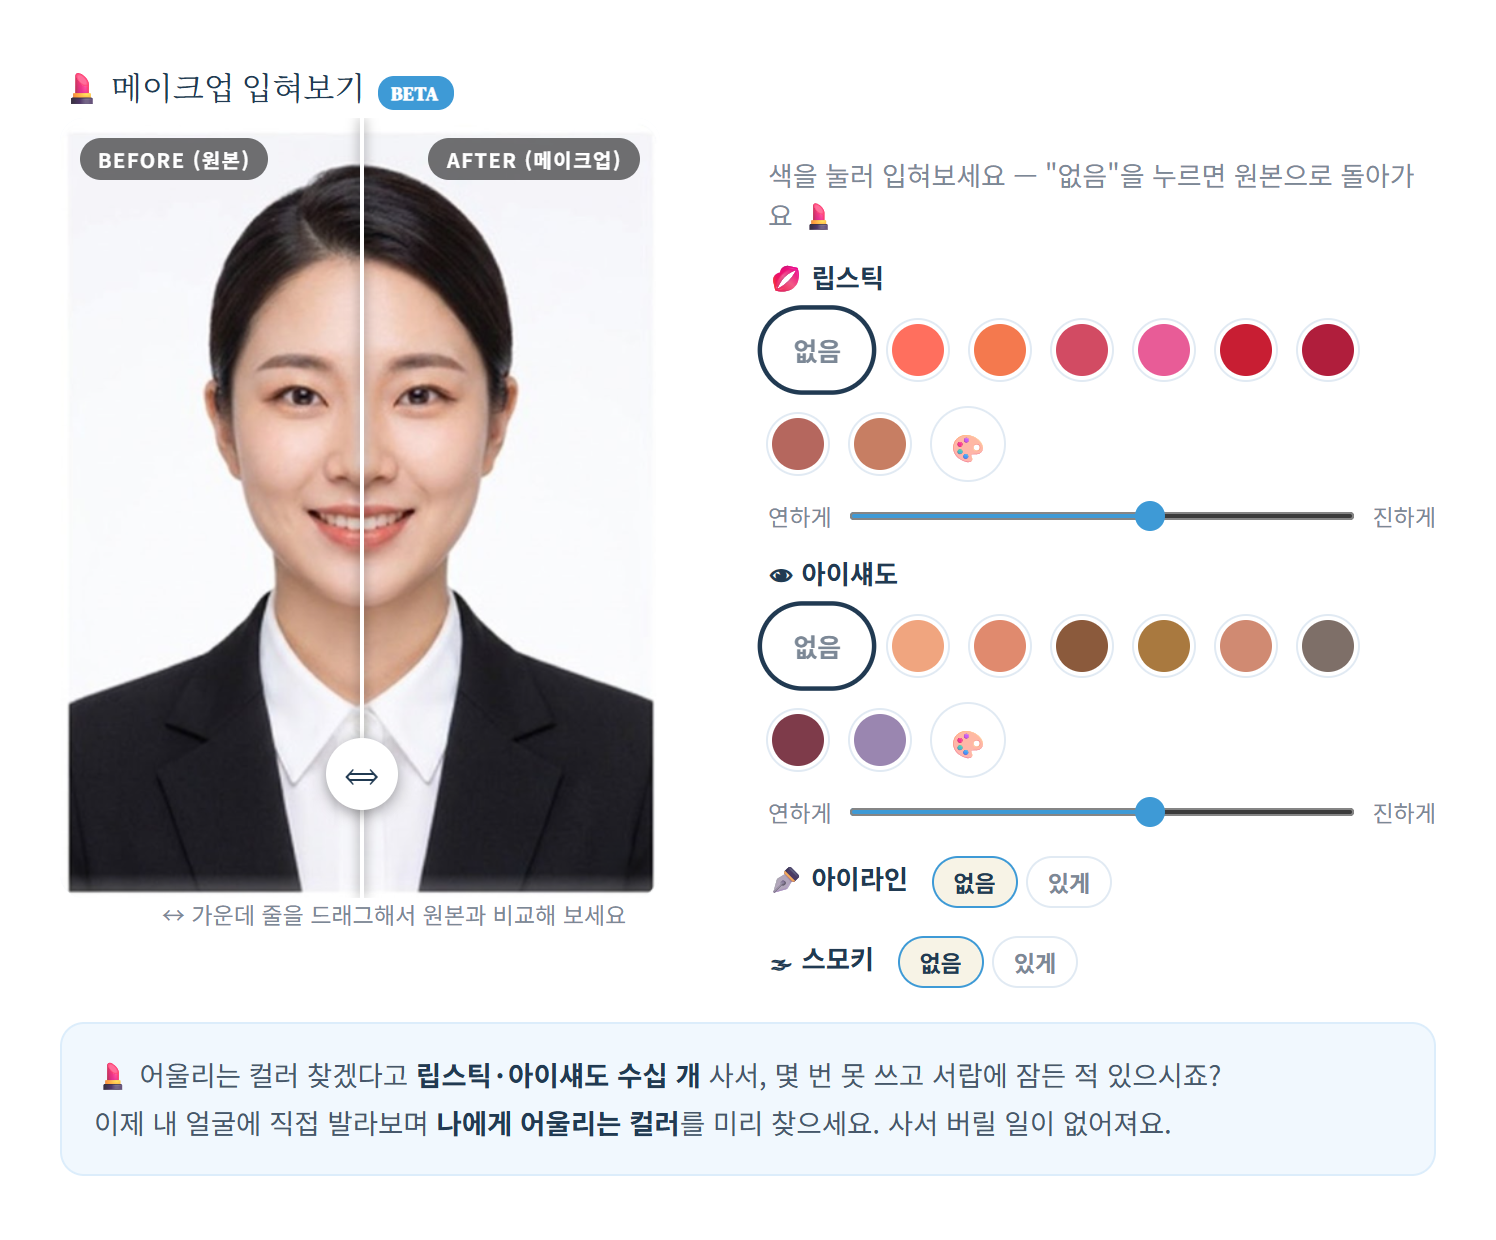
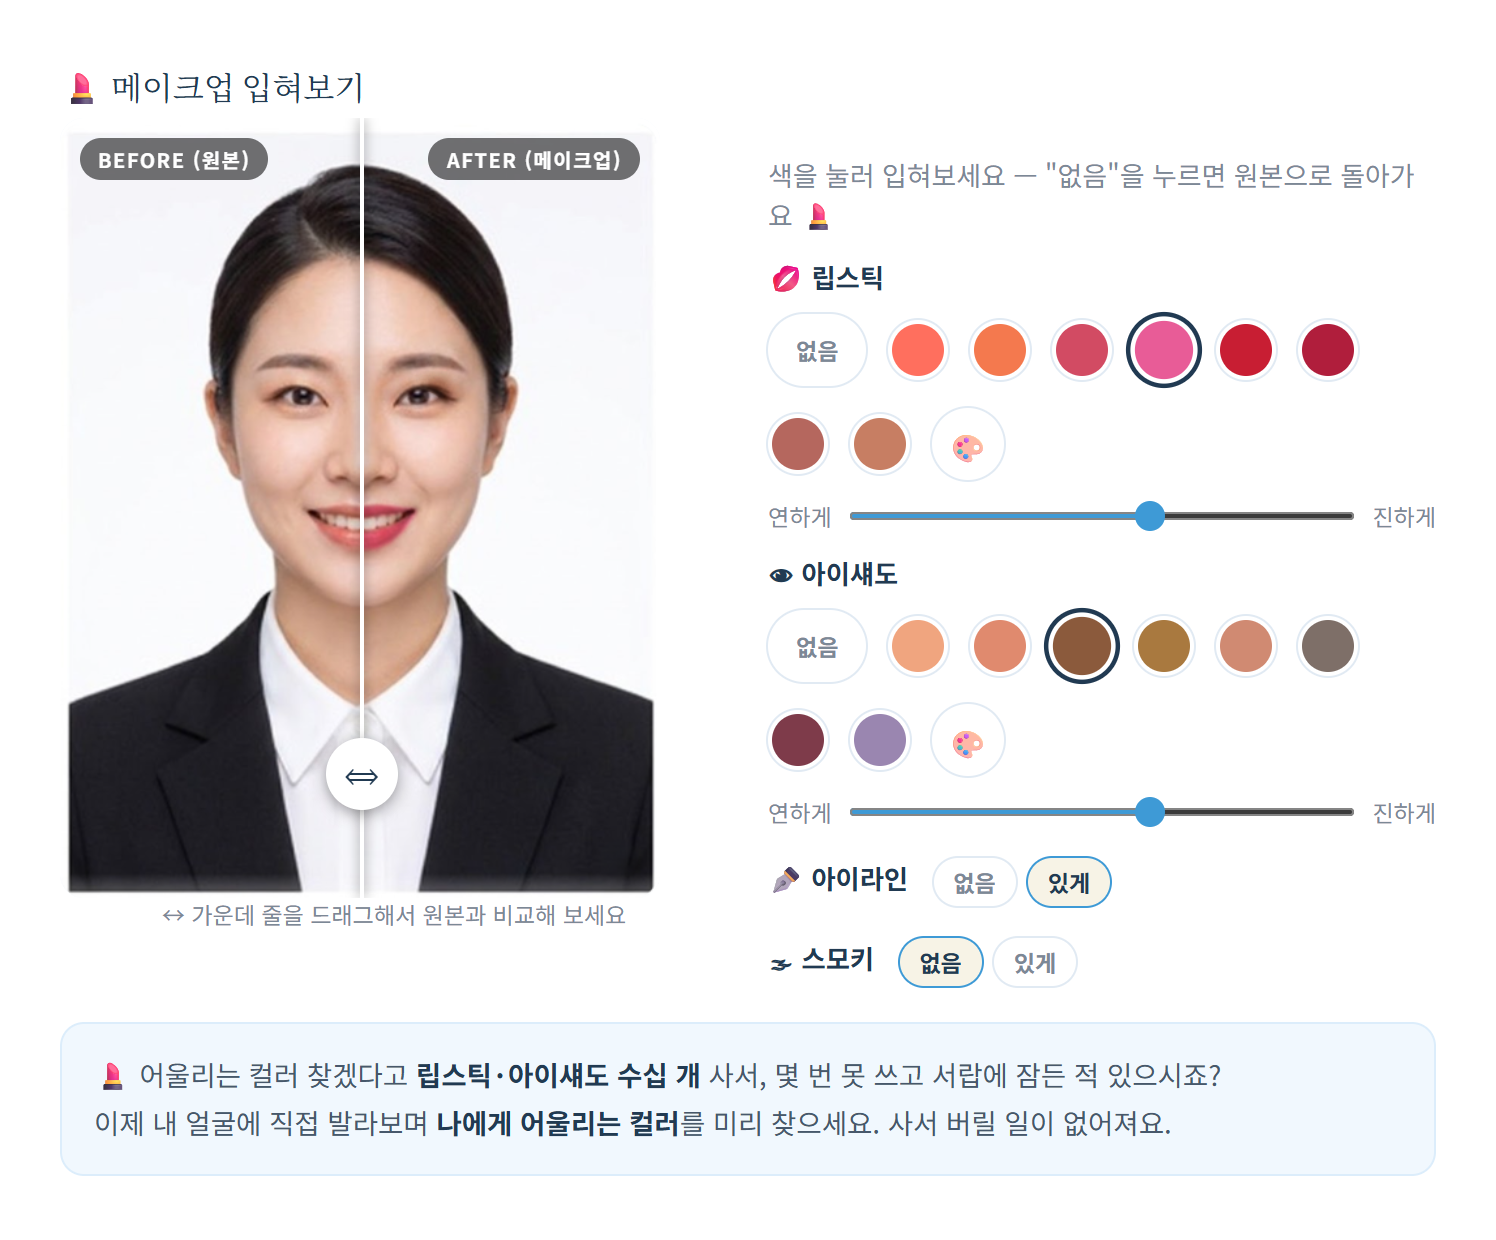
인스타 10장 재구성: 새 순서(04CV·05실시간분석좌우채움·06영상·07디스커션·08파이널·09성장리포트 실제화면) · footer 겹침·크기 수정 · 메이크업 색+BETA제거 · 카드10 스카프제거 · /live URL(=landing) · 블로그 성장리포트+SEO

diff --git a/insta-promo.html b/insta-promo.html
@@ -42,16 +42,16 @@ h1{font-size:1.5rem;color:var(--navy);margin-bottom:6px;}
 <span class="tags">#승무원 #승무원준비 #승무원면접 #승무원지망생 #객실승무원 #면접사진 #승무원메이크업 #승무원CV #영문이력서 #외항사승무원 #외항사면접 #에미레이트 #카타르항공 #싱가포르항공 #캐세이퍼시픽 #승무원영어 #AI면접코칭 #승무원합격 #무료특강 #무료라이브 #승무원준비생 #승무원스터디 #cabincrew #flightattendant #승무원되는법 #승무원취업 #항공사면접 #승무원인터뷰 #원더풀크루 #승무원온라인</span></div>
 
   <div class="grid">
-    <div class="card"><img src="images/insta-01.png"><div class="meta"><div class="n">01 / 10</div><div class="t">AI로 승무원 합격하기</div><div class="d">승무원 3명 + 무료 라이브 신청(9/20)</div></div></div>
-    <div class="card"><img src="images/insta-02.png"><div class="meta"><div class="n">02 / 10</div><div class="t">면접사진 만들기</div><div class="d">평소 셀카 한 장이면 합격 증명사진</div></div></div>
-    <div class="card"><img src="images/insta-03.png"><div class="meta"><div class="n">03 / 10</div><div class="t">메이크업 컬러 찾기</div><div class="d">내 얼굴에 립·아이섀도 직접 발라보기</div></div></div>
-    <div class="card"><img src="images/insta-04.png"><div class="meta"><div class="n">04 / 10</div><div class="t">AI 실시간 이미지 분석</div><div class="d">미소·시선을 점수로 실시간 코칭</div></div></div>
-    <div class="card"><img src="images/insta-05.png"><div class="meta"><div class="n">05 / 10</div><div class="t">영상 면접 · 스몰톡</div><div class="d">면접관과 마주 보며 실시간 분석</div></div></div>
-    <div class="card"><img src="images/insta-06.png"><div class="meta"><div class="n">06 / 10</div><div class="t">파이널 · 최종 면접</div><div class="d">실전처럼 답하고 자막·피드백까지</div></div></div>
-    <div class="card"><img src="images/insta-07.png"><div class="meta"><div class="n">07 / 10</div><div class="t">그룹 디스커션</div><div class="d">항공사별 실전 토론을 미리 연습</div></div></div>
-    <div class="card"><img src="images/insta-08.png"><div class="meta"><div class="n">08 / 10</div><div class="t">영문 CV 템플릿</div><div class="d">몇 분이면 완성되는 승무원 이력서</div></div></div>
-    <div class="card"><img src="images/insta-09.png"><div class="meta"><div class="n">09 / 10</div><div class="t">성장 리포트</div><div class="d">매일의 연습이 그래프로 쌓여요</div></div></div>
-    <div class="card"><img src="images/insta-10.png"><div class="meta"><div class="n">10 / 10</div><div class="t">무료 라이브 클래스</div><div class="d">9월 20일(일) 오후 7시 · 온라인</div></div></div>
+    <div class="card"><img src="insta/insta-01.png"><div class="meta"><div class="n">01 / 10</div><div class="t">AI로 승무원 합격하기</div><div class="d">승무원 3명 + 무료 라이브 신청(9/20)</div></div></div>
+    <div class="card"><img src="insta/insta-02.png"><div class="meta"><div class="n">02 / 10</div><div class="t">면접사진 만들기</div><div class="d">평소 셀카 한 장이면 합격 증명사진</div></div></div>
+    <div class="card"><img src="insta/insta-03.png"><div class="meta"><div class="n">03 / 10</div><div class="t">메이크업 컬러 찾기</div><div class="d">내 얼굴에 립·아이섀도 직접 발라보기</div></div></div>
+    <div class="card"><img src="insta/insta-04.png"><div class="meta"><div class="n">04 / 10</div><div class="t">영문 CV 템플릿</div><div class="d">몇 분이면 완성되는 승무원 이력서</div></div></div>
+    <div class="card"><img src="insta/insta-05.png"><div class="meta"><div class="n">05 / 10</div><div class="t">AI 실시간 이미지 분석</div><div class="d">미소·시선을 점수로 실시간 코칭</div></div></div>
+    <div class="card"><img src="insta/insta-06.png"><div class="meta"><div class="n">06 / 10</div><div class="t">영상 면접 · 스몰톡</div><div class="d">면접관과 마주 보며 실시간 분석</div></div></div>
+    <div class="card"><img src="insta/insta-07.png"><div class="meta"><div class="n">07 / 10</div><div class="t">그룹 디스커션</div><div class="d">항공사별 실전 토론을 미리 연습</div></div></div>
+    <div class="card"><img src="insta/insta-08.png"><div class="meta"><div class="n">08 / 10</div><div class="t">파이널 · 최종 면접</div><div class="d">실전처럼 답하고 자막·피드백까지</div></div></div>
+    <div class="card"><img src="insta/insta-09.png"><div class="meta"><div class="n">09 / 10</div><div class="t">성장 리포트</div><div class="d">종합 실력을 레이더·리포트로 분석</div></div></div>
+    <div class="card"><img src="insta/insta-10.png"><div class="meta"><div class="n">10 / 10</div><div class="t">무료 라이브 클래스</div><div class="d">9월 20일(일) 오후 7시 · 온라인</div></div></div>
   </div>
 </div>
 </body>

diff --git a/blog-drafts.html b/blog-drafts.html
@@ -490,7 +490,7 @@ hr{border:none;border-top:1px dashed var(--line);margin:30px 0;}
 
   <h2>② 메이크업 컬러 찾기 — 내 얼굴에 직접 발라봐요</h2>
   <p>립스틱·아이섀도 컬러를 수십 개 사서 버릴 필요 없어요. 원더풀크루에서는 내 얼굴에 립스틱·아이섀도·아이라인을 직접 입혀보며 나에게 어울리는 면접 메이크업 컬러를 찾아요. 색을 클릭하면 실시간으로 발라지고, 가운데 선을 좌우로 밀면 화장 전과 후가 한눈에 비교됩니다.</p>
-  <figure><img src="images/shot-makeup.png" alt="메이크업 입히기 - BEFORE/AFTER와 립스틱·아이섀도 팔레트 화면"><figcaption>실제 화면 — 색을 누르면 내 얼굴에 발라지고, 가운데 선으로 전/후를 비교해요</figcaption></figure>
+  <figure><img src="images/shot-makeup.png?v=2" alt="메이크업 입히기 - BEFORE/AFTER와 립스틱·아이섀도 팔레트 화면"><figcaption>실제 화면 — 색을 누르면 내 얼굴에 발라지고, 가운데 선으로 전/후를 비교해요</figcaption></figure>
 
   <h2>③ AI 실시간 이미지 분석 — 무표정인 걸 본인만 몰라요</h2>
   <p>실전에서 무너지는 건 대개 표정이에요. 원더풀크루에서는 카메라를 켜면 미소·시선·정면 응시·조명을 실시간으로 점수화해 코칭해요. 무표정일 땐 미소 점수가 34점까지 떨어지며 “입꼬리 조금만 더!” 신호가 뜨고, 밝게 웃으면 100점으로 올라갑니다.</p>
